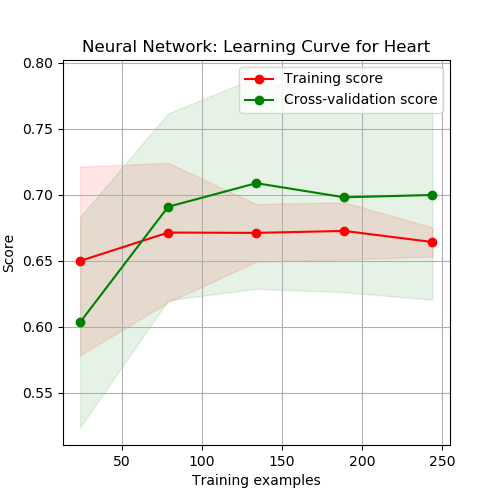
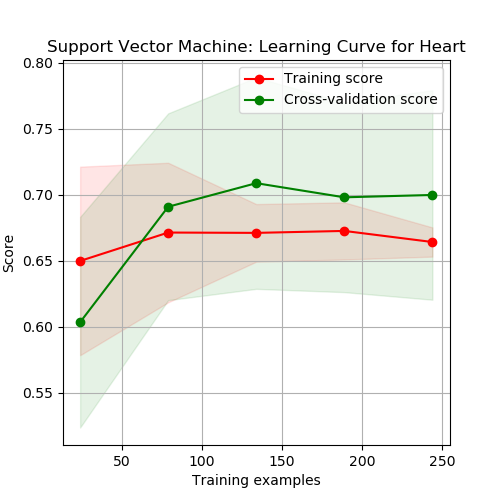
Fir title for SVM Heart learning curve graph

Changed region(s): [[0.09, 0.06, 0.93, 0.12]]

diff --git a/svm.py b/svm.py
@@ -51,7 +51,7 @@ train_heart_df = pd.read_csv(train_heart_loc)
 train_heart_X = train_heart_df.iloc[:,:-1]
 train_heart_Y = train_heart_df.iloc[:,-1]
 
-title = "Neural Network: Learning Curve for Heart"
+title = "Support Vector Machine: Learning Curve for Heart"
 cv = ShuffleSplit(n_splits=20, test_size=0.1, random_state=0)
 estimator = SVC(C=3.,kernel='rbf',random_state=0)
 image_loc = os.path.join(image_folder, 'SVM_learning_curve_heart.png')
